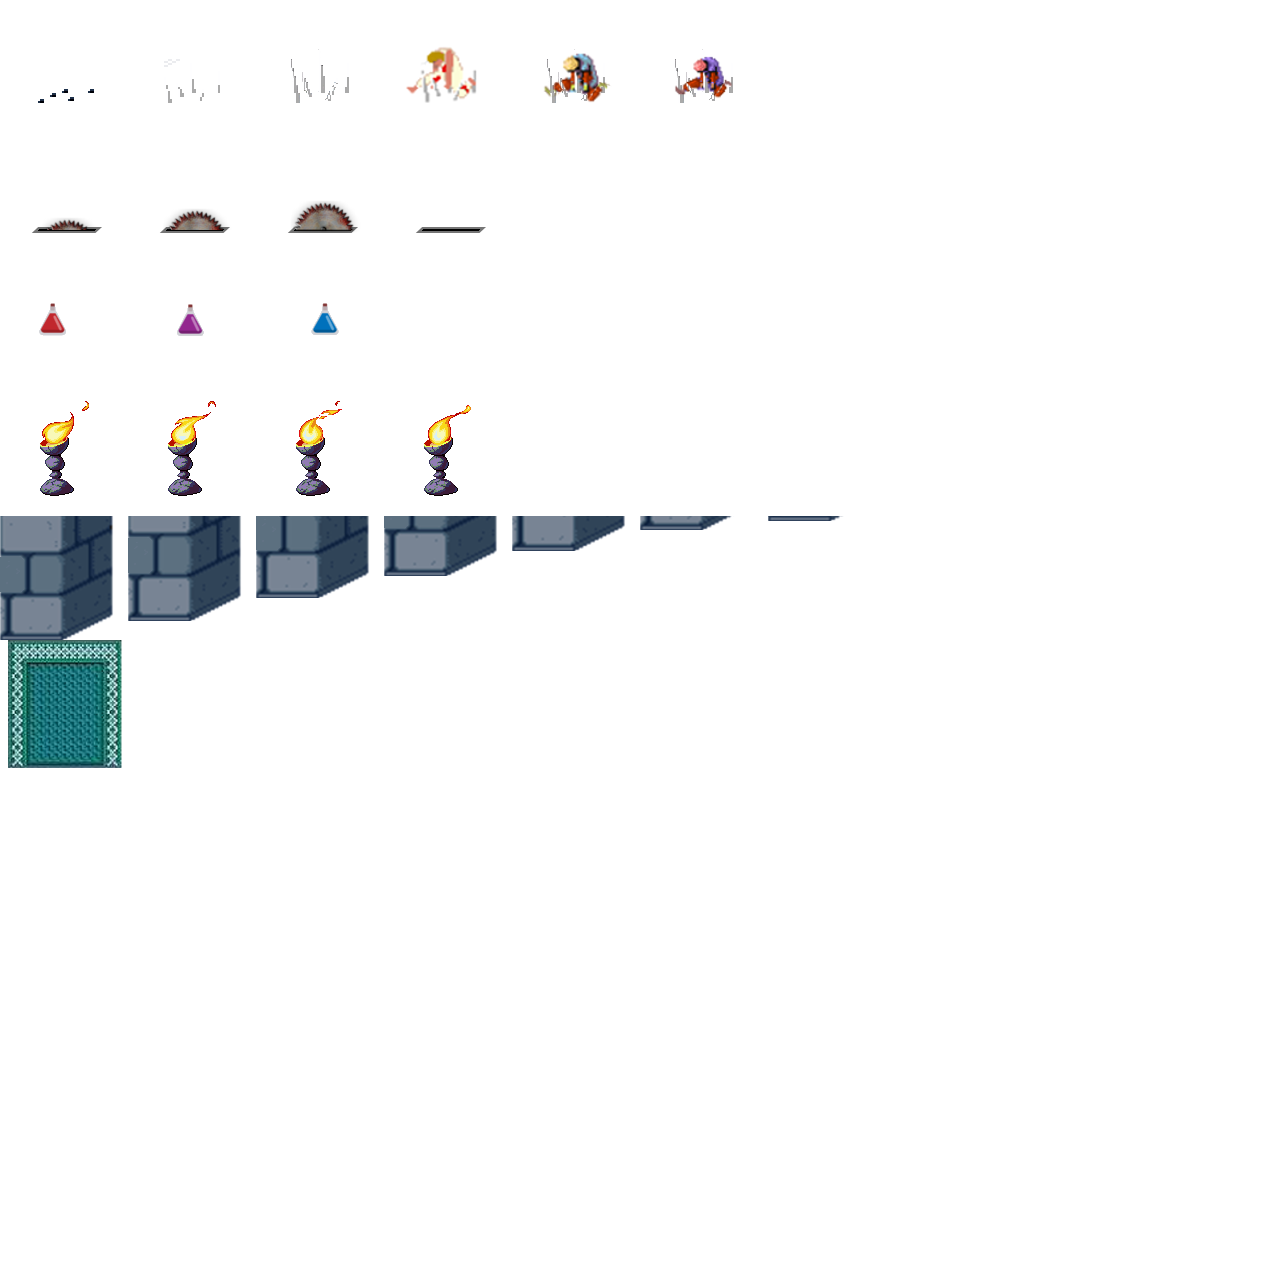
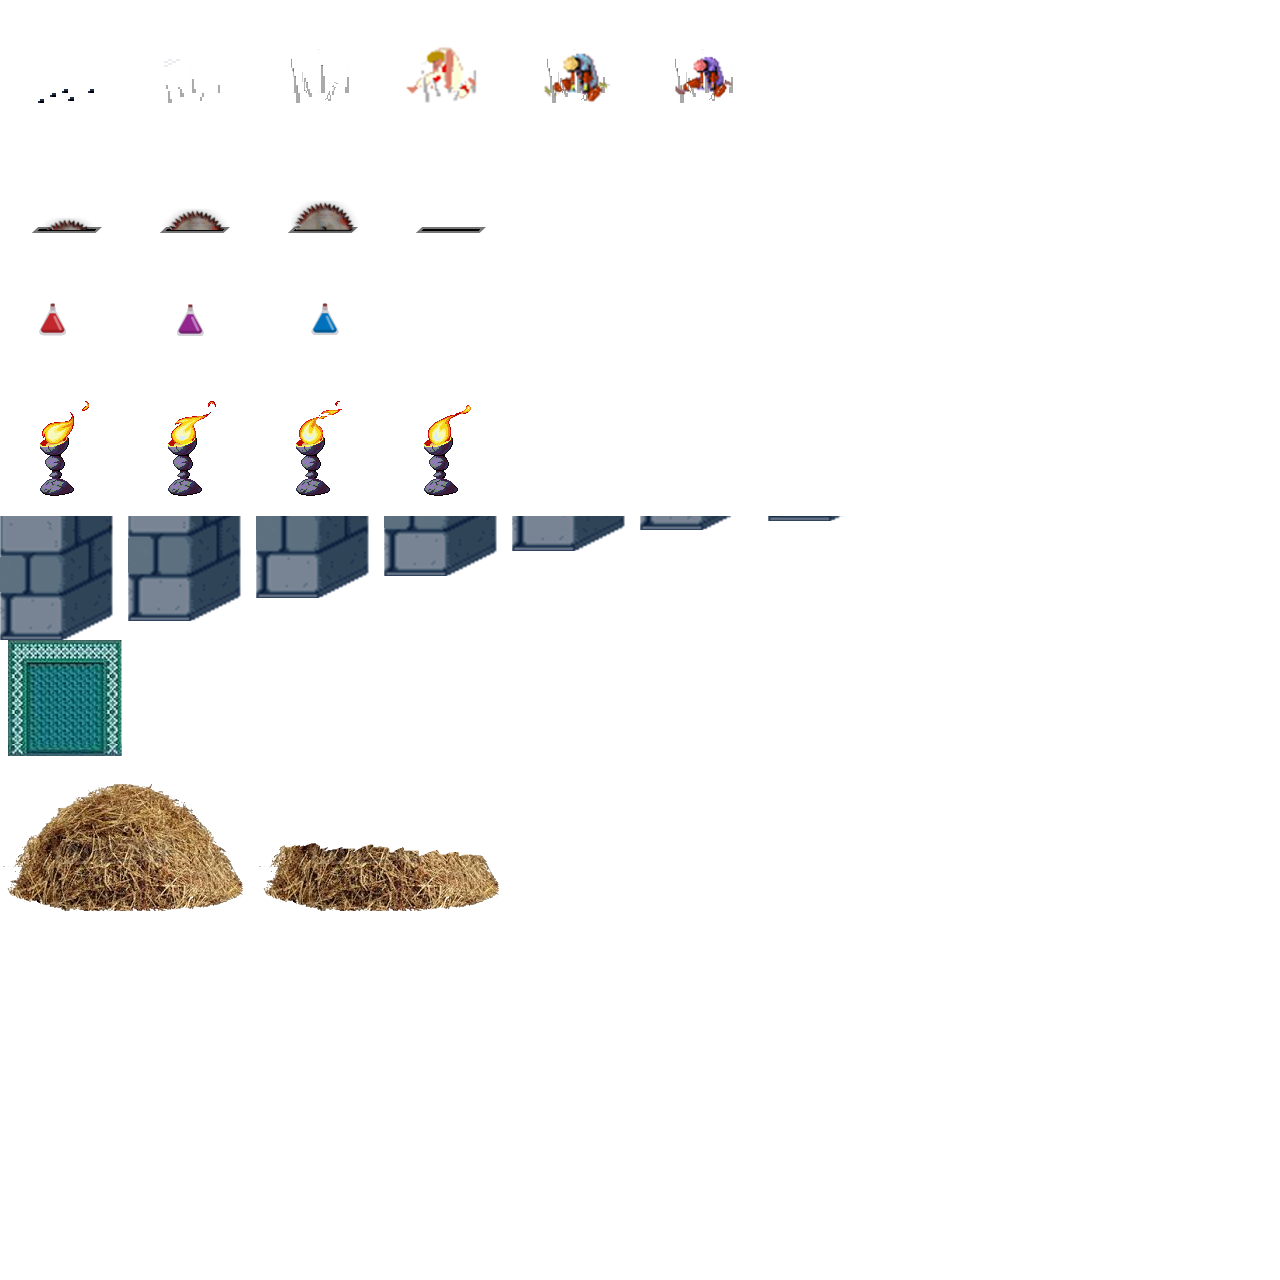
new entity

Changed region(s): [[0.0, 0.5625, 0.4062, 0.7188]]

diff --git a/2DGame/02-Bubble/02-Bubble/Scene.cpp b/2DGame/02-Bubble/02-Bubble/Scene.cpp
@@ -32,6 +32,7 @@ Scene::Scene()
 	background = NULL;
 	foreground = NULL;
 	player = NULL;
+	entities_foreground = NULL;
 }
 
 Scene::~Scene()
@@ -40,6 +41,8 @@ Scene::~Scene()
 		delete map;
 	if (entities != NULL)
 		delete entities;
+	if (entities_foreground != NULL)
+		delete entities_foreground;
 	if (background != NULL)
 		delete background;
 	if (foreground != NULL)
@@ -63,12 +66,14 @@ void Scene::init(bool is_reset, int lvl)
 	if (level == 1){
 		map = TileMap::createTileMap("levels/level01.txt", glm::vec2(SCREEN_X, SCREEN_Y), texProgram);
 		entities = EntityMap::createTileMap("levels/level01e.txt", glm::vec2(SCREEN_X, SCREEN_Y), texProgram, map, player);
+		entities_foreground = EntityMap::createTileMap("levels/level01ef.txt", glm::vec2(SCREEN_X, SCREEN_Y), texProgram, map, player);
 		background = TileMap::createTileMap("levels/level01b.txt", glm::vec2(SCREEN_X, SCREEN_Y), texProgram);
 		foreground = TileMap::createTileMap("levels/level01f.txt", glm::vec2(SCREEN_X, SCREEN_Y), texProgram);
 	}
 	else if (level == 2){
 		map = TileMap::createTileMap("levels/level02.txt", glm::vec2(SCREEN_X, SCREEN_Y), texProgram);
 		entities = EntityMap::createTileMap("levels/level02e.txt", glm::vec2(SCREEN_X, SCREEN_Y), texProgram, map, player);
+		entities_foreground = EntityMap::createTileMap("levels/level02ef.txt", glm::vec2(SCREEN_X, SCREEN_Y), texProgram, map, player);
 		background = TileMap::createTileMap("levels/level02b.txt", glm::vec2(SCREEN_X, SCREEN_Y), texProgram);
 		foreground = TileMap::createTileMap("levels/level02f.txt", glm::vec2(SCREEN_X, SCREEN_Y), texProgram);
 	}
@@ -108,7 +113,10 @@ void Scene::update(int deltaTime)
 	player->down_key = true;
 	entities->update(deltaTime);
 	entities->interactEntitiesWithActor(*player);
-	if (entities->winer(*player)) {
+
+	entities_foreground->update(deltaTime);
+	entities_foreground->interactEntitiesWithActor(*player);
+	if (entities->winer(*player) || entities_foreground->winer(*player)) {
 		
 		completed = true;
 	}
@@ -147,6 +155,8 @@ void Scene::render()
 	entities->render();
 
 	player->render();
+
+	entities_foreground->render();
 
 	texProgram.free();
 	texProgram.use();

diff --git a/2DGame/02-Bubble/02-Bubble/Entity.cpp b/2DGame/02-Bubble/02-Bubble/Entity.cpp
@@ -168,6 +168,47 @@ void Entity::init(const glm::ivec2 &tileMapPos, glm::ivec2 &pos, ShaderProgram &
 		col_position = glm::vec2(position.x, position.y);
 		col_size = glm::vec2(16, 64);
 	}
+	//paja
+	else if (type == 9){
+		sprite->setNumberAnimations(1);
+		sprite->setAnimationSpeed(ANIM1, 8);
+
+		sprite->addKeyframe(ANIM1, glm::vec2(0.0f, 0.6f));
+		position = glm::vec2(position.x, position.y);
+		sprite->setPosition(position);
+		col_position = glm::vec2(position.x, position.y);
+		col_size = glm::vec2(16, 64);
+	}
+	else if (type == 10){
+		sprite->setNumberAnimations(1);
+		sprite->setAnimationSpeed(ANIM1, 8);
+
+		sprite->addKeyframe(ANIM1, glm::vec2(0.1f, 0.6f));
+		position = glm::vec2(position.x, position.y);
+		sprite->setPosition(position);
+		col_position = glm::vec2(position.x, position.y);
+		col_size = glm::vec2(16, 64);
+	}
+	else if (type == 11){
+		sprite->setNumberAnimations(1);
+		sprite->setAnimationSpeed(ANIM1, 8);
+
+		sprite->addKeyframe(ANIM1, glm::vec2(0.2f, 0.6f));
+		position = glm::vec2(position.x, position.y);
+		sprite->setPosition(position);
+		col_position = glm::vec2(position.x, position.y);
+		col_size = glm::vec2(16, 64);
+	}
+	else if (type == 12){
+		sprite->setNumberAnimations(1);
+		sprite->setAnimationSpeed(ANIM1, 8);
+
+		sprite->addKeyframe(ANIM1, glm::vec2(0.3f, 0.6f));
+		position = glm::vec2(position.x, position.y);
+		sprite->setPosition(position);
+		col_position = glm::vec2(position.x, position.y);
+		col_size = glm::vec2(16, 64);
+	}
 
 	sprite->changeAnimation(ANIM1);
 }
@@ -271,6 +312,7 @@ bool Entity::action(GameActor &actor){
 
 
 		}//saw
+
 	}
 	return false;
 }

diff --git a/2DGame/02-Bubble/02-Bubble/Game.cpp b/2DGame/02-Bubble/02-Bubble/Game.cpp
@@ -2,9 +2,10 @@
 #include <GL/glut.h>
 #include "Game.h"
 
+#define NUM_LVLS 2
 enum GameStatus
 {
-	PLAYING, MAINMENU, PAUSE
+	PLAYING, MAINMENU, PAUSE, WINER
 };
 
 void Game::init()
@@ -24,7 +25,11 @@ bool Game::update(int deltaTime)
 		case PLAYING:
 			if (scene.completed) {
 				//menu.first_update = true;
-				scene.init(true, 2);
+				if (scene.level == NUM_LVLS) {
+					menu.menu_status = 3;
+					game_status = WINER;
+				}
+				else scene.init(true, scene.level+1);
 
 				//game_status = MAINMENU;
 			}
@@ -35,6 +40,9 @@ bool Game::update(int deltaTime)
 			break;
 		case PAUSE:
 			pause.update(deltaTime);
+			break;
+		case WINER:
+			menu.update(deltaTime);
 			break;
 	}
 	return bPlay;
@@ -54,6 +62,9 @@ void Game::render()
 		case PAUSE:
 			scene.render();
 			pause.render();
+			break;
+		case WINER:
+			menu.render();
 			break;
 	}
 }
@@ -93,12 +104,14 @@ void Game::keyReleased(int key)
 			scene.init(true, 1);
 			game_status = MAINMENU;
 			break;
+		
 		}
+
 	}
 	else if (key == 83 || key == 115){
 		switch (game_status){
 		case PLAYING:
-			scene.init(true, 2);
+			scene.completed = true;
 			break;
 		}
 	}
@@ -108,7 +121,10 @@ void Game::keyReleased(int key)
 	else if ((key == 67 || key == 99) && game_status == MAINMENU){
 		menu.menu_status = 2;
 	}
-	else if ((key == 77 || key == 109) && game_status == MAINMENU){
+	else if ((key == 77 || key == 109) && (game_status == MAINMENU || game_status == WINER)){
+		menu.first_update = true;
+		scene.init(true, 1);
+		game_status = MAINMENU;
 		menu.menu_status = 0;
 	}
 	keys[key] = false;

diff --git a/2DGame/02-Bubble/02-Bubble/MainMenu.cpp b/2DGame/02-Bubble/02-Bubble/MainMenu.cpp
@@ -29,6 +29,9 @@ void MainMenu::init(ShaderProgram &shaderProgram)
 	menu_tex3.loadFromFile("images/credits.png", TEXTURE_PIXEL_FORMAT_RGBA);
 	sprite_credits = Sprite::createSprite(glm::ivec2(SCREEN_WIDTH, SCREEN_HEIGHT), glm::vec2(1.f, 1.f), &menu_tex3, &texProgram);
 
+	menu_tex4.loadFromFile("images/win.png", TEXTURE_PIXEL_FORMAT_RGBA);
+	sprite_win = Sprite::createSprite(glm::ivec2(SCREEN_WIDTH, SCREEN_HEIGHT), glm::vec2(1.f, 1.f), &menu_tex4, &texProgram);
+
 	sprite->setNumberAnimations(1);
 	sprite->setAnimationSpeed(0, 2);
 	sprite->addKeyframe(0, glm::vec2(0.f, 0.f));
@@ -47,6 +50,12 @@ void MainMenu::init(ShaderProgram &shaderProgram)
 	sprite_credits->addKeyframe(0, glm::vec2(0.f, 0.f));
 	sprite_credits->changeAnimation(0);
 	sprite_credits->setPosition(glm::vec2(float(0), float(0)));
+
+	sprite_win->setNumberAnimations(1);
+	sprite_win->setAnimationSpeed(0, 8);
+	sprite_win->addKeyframe(0, glm::vec2(0.f, 0.f));
+	sprite_win->changeAnimation(0);
+	sprite_win->setPosition(glm::vec2(float(0), float(0)));
 
 }
 
@@ -76,5 +85,6 @@ void MainMenu::render()
 	if (menu_status == 0) sprite->render();
 	else if (menu_status == 1) sprite_help->render();
 	else if (menu_status == 2) sprite_credits->render();
+	else if (menu_status == 3) sprite_win->render();
 
 }

diff --git a/2DGame/02-Bubble/02-Bubble/MainMenu.h b/2DGame/02-Bubble/02-Bubble/MainMenu.h
@@ -20,9 +20,11 @@ private:
 	Texture menu_tex;
 	Texture menu_tex2;
 	Texture menu_tex3;
+	Texture menu_tex4;
 	Sprite *sprite;
 	Sprite *sprite_help;
 	Sprite *sprite_credits;
+	Sprite *sprite_win;
 	
 };
 

diff --git a/2DGame/02-Bubble/02-Bubble/Scene.h b/2DGame/02-Bubble/02-Bubble/Scene.h
@@ -38,6 +38,7 @@ private:
 	bool first_update;
 	int totalPlayTime;
 	EntityMap *entities;
+	EntityMap *entities_foreground;
 	TileMap *map;
 	TileMap *background;
 	TileMap *foreground;
